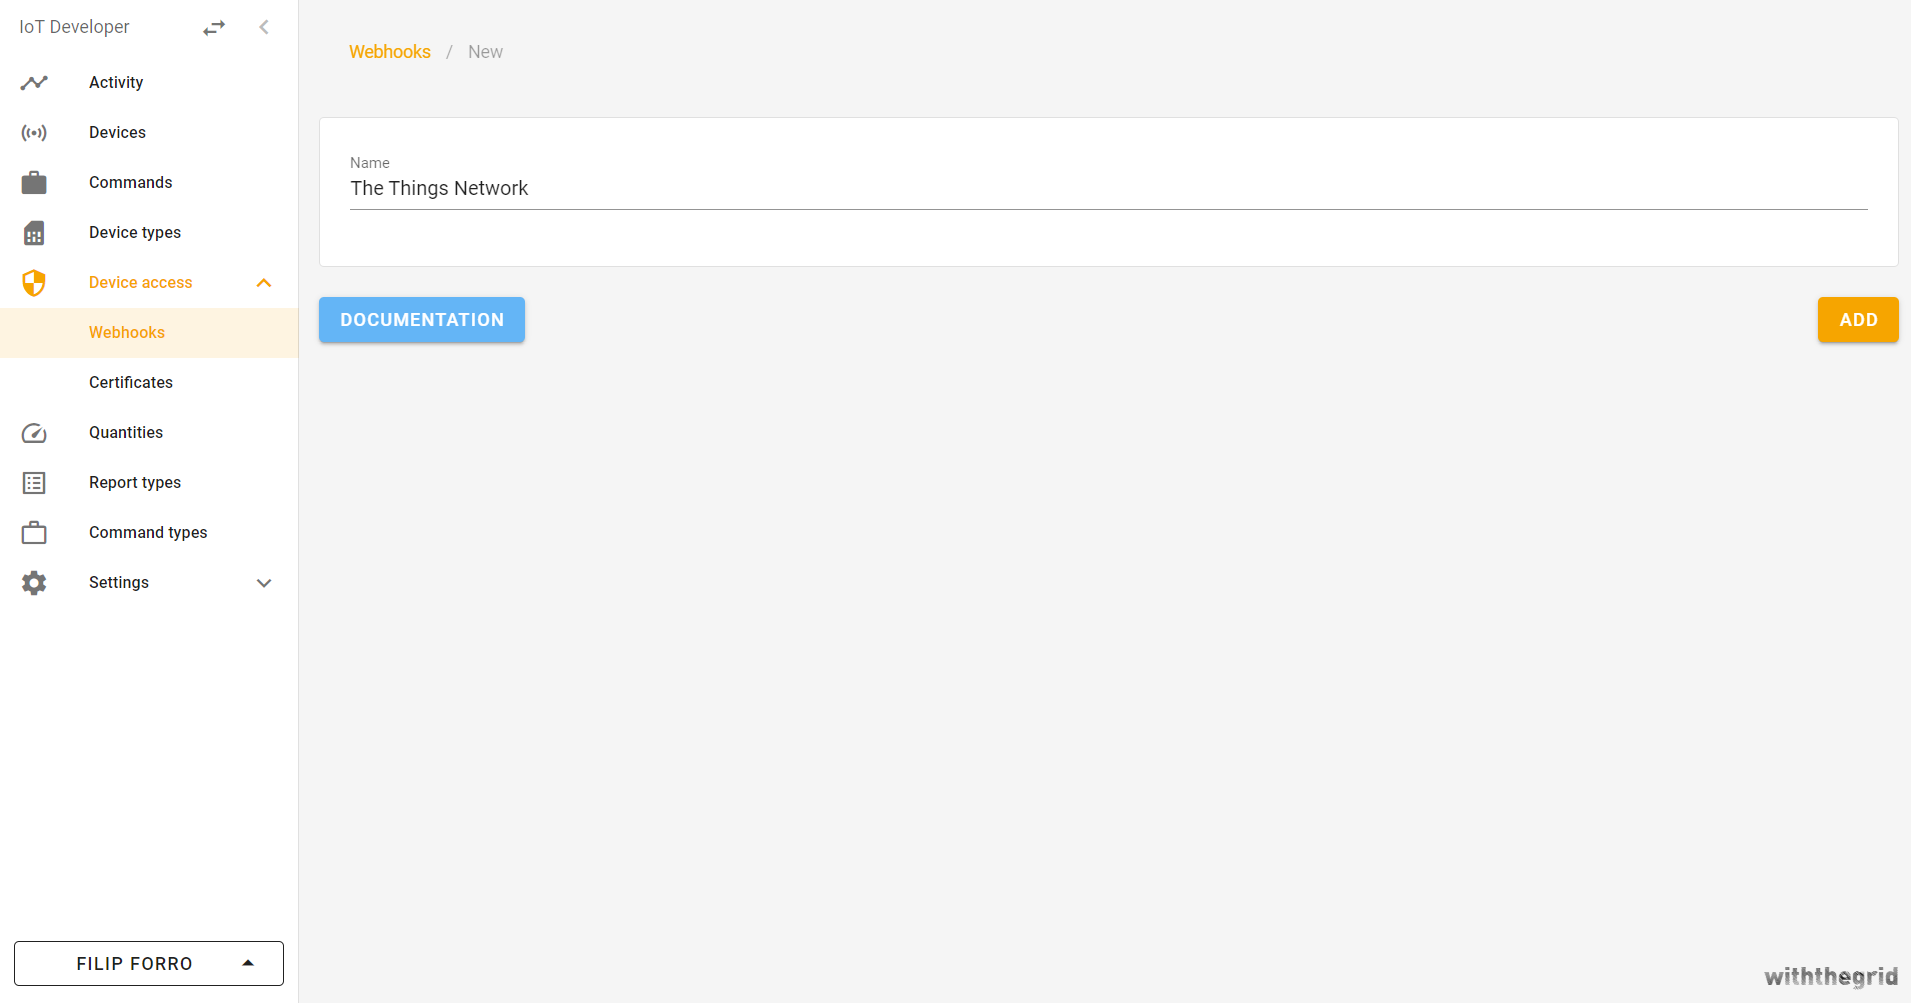
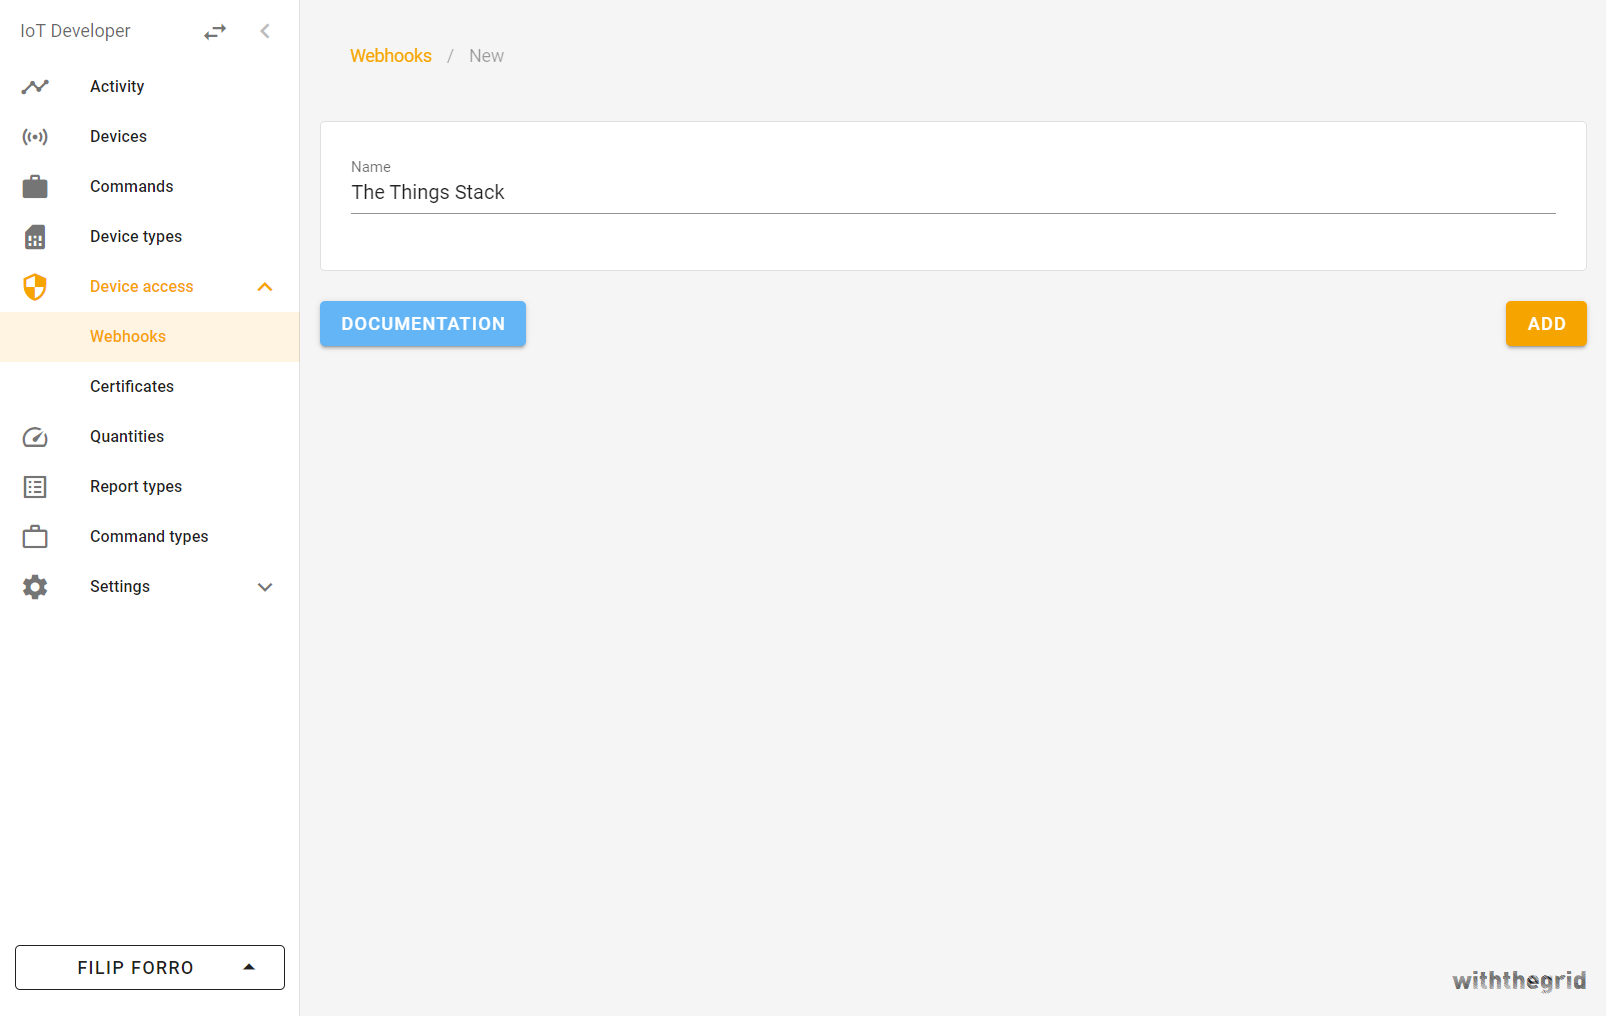
Deploying to gh-pages from  @ c5a835e27c7290f1d20626c1cb16a0f3274a8130 🚀

diff --git a/integrations/cloud-integrations/withthegrid/index.html b/integrations/cloud-integrations/withthegrid/index.html
@@ -284,7 +284,7 @@
         </h1>
         
         <div class="content">
-          <p><a href="https://withthegrid.com/">Withthegrid</a> is a IoT asset monitoring platform for infrastructure - it allows you to monitor assets, connect IoT sensors, visualize data, detect anomalies and manage workflows. In this section, we describe how to implement The Things Stack integration with the Withthegrid platform.</p>
+          <p><a href="https://withthegrid.com/">Withthegrid</a> is an IoT asset monitoring platform for infrastructure - it allows you to monitor assets, connect IoT sensors, visualize data, detect anomalies and manage workflows. In this section, we describe how to implement The Things Stack integration with the Withthegrid platform.</p>
 <h2 id="requirements">Requirements</h2>
 <p>Use a requirements subheading to list requirements/prerequisites.</p>
 <ol>
@@ -298,7 +298,7 @@
 <figure>
     <img src="monnEnvironment.png"
          alt="Monitoring environment example"/> <figcaption>
-            <p>Figure 1. Example of a setup of monitoring environment</p>
+            <p>Figure 1. Example of the setup of monitoring environment</p>
         </figcaption>
 </figure>
 
@@ -307,7 +307,7 @@
 <p>In the connectivity environment, you can configure secure access for your devices through HTTPS webhooks or client certificates. You can define event handlers in TypeScript that parse incoming payloads into measurement reports, return instructions to devices and monitor device health.</p>
 <figure>
     <img src="connEnvironment.png"
-         alt="Figure 2. Example of the setup of connectivity environment"/> <figcaption>
+         alt="Connectivity environment example"/> <figcaption>
             <p>Figure 2. Example of the setup of connectivity environment</p>
         </figcaption>
 </figure>
@@ -318,7 +318,9 @@
 <p>A simplified dataflow model is shown in the figure below. An HTTP request from The Things Stack is processed by the <strong>webhook</strong>. Webhooks define the communicating device type, its unique identifier (e.g. IMEI number) and forward this information together with the payload to the corresponding <strong>device type event handler</strong>. Subsequently, the event handler runs a <strong>report parser</strong>. The platform offers full flexibility on how to parse payload into condition reports, using a custom TypeScript parser function. The parser should then convert the payload string (probably applying <code>JSON.parse</code> first) into an actual report with measurements.</p>
 <figure>
     <img src="dataFlow.png"
-         alt="WTG dataflow"/> 
+         alt="WTG dataflow"/> <figcaption>
+            <p>Figure 3. Simplified dataflow model of the Withthegrid platform</p>
+        </figcaption>
 </figure>
 
 <p>Now, let&rsquo;s implement the integration!</p>
@@ -326,106 +328,134 @@
 <p>To create a new connectivity environment, simply enter the desired name and select <strong>CREATE</strong>.</p>
 <figure>
     <img src="1_c_environment.png"
-         alt="Create new connectivity environment"/> 
+         alt="Create new connectivity environment"/> <figcaption>
+            <p>Figure 4. New connectivity environment</p>
+        </figcaption>
 </figure>
 
 <p>The same procedure can be followed to create a new monitoring environment. To create the first location in the monitoring environment, locate the desired place on the map and <strong>Add a new location</strong>.</p>
 <figure>
     <img src="claim6.png"
-         alt="Add new location"/> 
+         alt="Add new location"/> <figcaption>
+            <p>Figure 5. Add new location</p>
+        </figcaption>
 </figure>
 
 <p>To navigate between the environments, click on the arrows located in the top left corner.</p>
 <h2 id="step-2-creating-a-new-webhook">Step 2: Creating a new webhook</h2>
-<p>The first step in integrating the Withthegrid platform with The Things Network is to create a new webhook. Webhooks can be found in the connectivity environment, under <strong>Device access/Webhooks</strong>. To create a new webhook, click <strong>+</strong> in the right bottom corner.</p>
+<p>The first step in integrating the Withthegrid platform with The Things Stack is to create a new webhook. Webhooks can be found in the connectivity environment, under <strong>Device access/Webhooks</strong>. To create a new webhook, click <strong>+</strong> in the right bottom corner.</p>
 <figure>
     <img src="2_c_environment.png"
-         alt="Webhooks"/> 
+         alt="Webhooks"/> <figcaption>
+            <p>Figure 6. Webhooks overview</p>
+        </figcaption>
 </figure>
 
 <p>Select the desired webhook name and click <strong>ADD</strong>.</p>
 <figure>
     <img src="webhook_1.png"
-         alt="Add webhook"/> 
+         alt="Add webhook"/> <figcaption>
+            <p>Figure 7. Add a new webhook</p>
+        </figcaption>
 </figure>
 
-<p>The platform will generate a webhook URL which we can use later to connect with The Things Network.</p>
+<p>The platform will generate a webhook URL which we can use later to connect with The Things Stack.</p>
 <figure>
     <img src="webhook_2.png"
-         alt="Webhook URL"/> 
+         alt="Webhook URL"/> <figcaption>
+            <p>Figure 8. New webhook</p>
+        </figcaption>
 </figure>
 
 <h2 id="step-3-creating-and-configuring-a-new-device-type">Step 3: Creating and configuring a new device type</h2>
 <p>A new device type can be created in a connectivity environment by navigating to <strong>Device types</strong>. This page shows an overview of all the device types that are available in your environment. Let’s create the first device type by clicking <strong>+</strong> in the bottom right corner.</p>
 <figure>
     <img src="5_c_environment_deviceType.png"
-         alt="New device type"/> 
+         alt="New device type"/> <figcaption>
+            <p>Figure 9. Device types overview</p>
+        </figcaption>
 </figure>
 
 <p>Name the new device type. At this point, we can also change the default name of the device channel to <code>Internal Sensor</code>. Use the same name for default name for port. This is where internal battery voltage measurements will be pushed.</p>
 <figure>
     <img src="device_type_1.png"
-         alt="Device type overview"/> 
+         alt="Device type overview"/> <figcaption>
+            <p>Figure 10. Add a new device type</p>
+        </figcaption>
 </figure>
 
 <p>Let’s create one additional channel (<code>Probe</code>), where we will push measurements related to the water leak.</p>
 <figure>
     <img src="device_type_2.png"
-         alt="Set channels"/> 
+         alt="Set channels"/> <figcaption>
+            <p>Figure 11. Set channels</p>
+        </figcaption>
 </figure>
 
 <p>Click <strong>ADD</strong> to set the channel and click <strong>ADD</strong> to update and save the changes.</p>
 <p>Withthegrid&rsquo;s new event handler will validate the incoming request and pass the payload to the corresponding report parser which will parse incoming payloads into measurement reports. The new device type will be given a new hashID (e.g. <strong>4djrvd</strong>) which is a unique ID that identifies the event handler of <strong>Dragino - LWL02</strong>.</p>
 <figure>
     <img src="device_type_3.png"
-         alt="Device type"/> 
+         alt="Device type"/> <figcaption>
+            <p>Figure 12. List of existing device types</p>
+        </figcaption>
 </figure>
 
 <h2 id="step-4-creating-a-new-report-type-and-quantities">Step 4: Creating a new report type and quantities</h2>
 <p>For each report, a report parser can parse the incoming payload. To create a new report, click <strong>+</strong> in the bottom right corner.</p>
 <figure>
     <img src="8_c_environment_report.png"
-         alt="Create a report parser"/> 
+         alt="Create a report parser"/> <figcaption>
+            <p>Figure 13. Report types overview</p>
+        </figcaption>
 </figure>
 
 <p>Follow the same steps as before to <strong>ADD</strong> the new report type.</p>
 <figure>
     <img src="10_c_environment_report.png"
-         alt="Report parser"/> 
+         alt="Report parser"/> <figcaption>
+            <p>Figure 14. Add a new report parser</p>
+        </figcaption>
 </figure>
 
 <p>In the report parser, we will correctly parse the incoming payload into a measurement report. A new report type will be given a hashID (e.g. <strong>eyr96d</strong>). Note that the hashID is automatically created and will be different for everyone.</p>
 <p>The quantities of interest in this example are voltage, leak status, total leak events and last leak duration. Custom quantities can be found in the panel under option <strong>Quantities</strong>. To create a new quantity, select <strong>+</strong>.</p>
 <figure>
     <img src="quantities_1.png"
-         alt="Quantities"/> 
+         alt="Quantities"/> <figcaption>
+            <p>Figure 15. Quantities overview</p>
+        </figcaption>
 </figure>
 
 <p>Enter the quantity name <code>Voltage</code> and unit <code>V</code>. To create the quantity, select <strong>ADD</strong>.</p>
 <figure>
     <img src="quantity_1.png"
-         alt="Create a quantity"/> 
+         alt="Create a quantity"/> <figcaption>
+            <p>Figure 16. Add a new quantity</p>
+        </figcaption>
 </figure>
 
 <p>After selecting <strong>ADD</strong>, a hashID will be created for the newly created quantity. We will create <code>Leak status</code>, <code>Total leak events</code>, and <code>Last leak duration</code> quantities by following the same procedure. For unitless quantities, just enter space. Leak duration is in min according to the datasheet. In this example, the voltage, leak status, total leak events, and last leak duration hashIDs are <strong>yl4wwy</strong>, <strong>dp2v9d</strong>, <strong>yzrwny</strong>, and <strong>d4rwrd</strong>, respectively. The hashIDs will be used in the report to identify the correct measurement quantity.</p>
 <figure>
     <img src="quantity_2.png"
-         alt="Created quantities overview"/> 
+         alt="Created quantities overview"/> <figcaption>
+            <p>Figure 17. List of existing quantities</p>
+        </figcaption>
 </figure>
 
 <h2 id="step-5-configuring-the-created-webhook">Step 5: Configuring the created webhook</h2>
-<p>The webhook created in step 2 can be edited by navigating to <strong>Webhooks</strong>, selecting the newly created <strong>The Things Network</strong> webhook, and clicking <strong>EDIT THE IDENTIFIER</strong>. The platform provides a template and a direct link to the webhook documentation. The following webhook will pass the payload from The Things Stack, together with the device type hashID to the appropriate event handler. Lastly, the webhook will also return a <code>deviceIdentifier</code>, e.g. the IMEI of the device.</p>
+<p>The webhook created in step 2 can be edited by navigating to <strong>Webhooks</strong>, selecting the newly created The Things Stack webhook, and clicking <strong>EDIT THE IDENTIFIER</strong>. The platform provides a template and a direct link to the webhook documentation. The following webhook will pass the payload from The Things Stack, together with the device type hashID to the appropriate event handler. Lastly, the webhook will also return a <code>deviceIdentifier</code>, e.g. the IMEI of the device.</p>
 <div class="highlight"><pre class="chroma"><code class="language-tsx" data-lang="tsx"><span class="nx">type</span> <span class="nx">JsonObject</span> <span class="o">=</span> <span class="p">{</span> <span class="p">[</span><span class="nx">key</span>: <span class="kt">string</span><span class="p">]</span><span class="o">:</span> <span class="nx">Json</span> <span class="p">};</span>
 
-<span class="kr">const</span> <span class="nx">ttnApplicationIds</span> <span class="o">=</span> <span class="p">{</span>
+<span class="kr">const</span> <span class="nx">ttsApplicationIds</span> <span class="o">=</span> <span class="p">{</span>
   <span class="nx">dragino</span><span class="o">:</span> <span class="p">{</span>
-    <span class="nx">waterLeak</span><span class="o">:</span> <span class="s2">&#34;dwl&#34;</span><span class="p">,</span>
+    <span class="nx">waterLeak</span><span class="o">:</span> <span class="s1">&#39;dwl&#39;</span><span class="p">,</span>
   <span class="p">},</span>
 <span class="p">};</span>
-
+ 
 <span class="kr">const</span> <span class="nx">deviceTypeHashIds</span> <span class="o">=</span> <span class="p">{</span>
   <span class="nx">dragino</span><span class="o">:</span> <span class="p">{</span>
-    <span class="nx">waterLeak</span><span class="o">:</span> <span class="s2">&#34;4djrvd&#34;</span><span class="p">,</span>
+    <span class="nx">waterLeak</span><span class="o">:</span> <span class="s1">&#39;4djrvd&#39;</span><span class="p">,</span>
   <span class="p">},</span>
 <span class="p">};</span>
 
@@ -434,7 +464,7 @@
   <span class="kd">let</span> <span class="nx">deviceTypeHashId</span><span class="p">;</span>
 
   <span class="k">switch</span> <span class="p">(</span><span class="nx">data</span><span class="o">?</span><span class="p">.</span><span class="nx">end_device_ids</span><span class="o">?</span><span class="p">.</span><span class="nx">application_ids</span><span class="p">.</span><span class="nx">application_id</span><span class="p">)</span> <span class="p">{</span>
-    <span class="k">case</span> <span class="nx">ttnApplicationIds.dragino.waterLeak</span>:
+    <span class="k">case</span> <span class="nx">ttsApplicationIds.dragino.waterLeak</span>:
       <span class="kt">deviceTypeHashId</span> <span class="o">=</span> <span class="nx">deviceTypeHashIds</span><span class="p">.</span><span class="nx">dragino</span><span class="p">.</span><span class="nx">waterLeak</span><span class="p">;</span>
       <span class="k">break</span><span class="p">;</span>
 
@@ -491,7 +521,7 @@
       <span class="k">if</span> <span class="p">(</span><span class="nx">payload</span><span class="p">.</span><span class="nx">join_accept</span> <span class="o">!==</span> <span class="kc">undefined</span><span class="p">)</span> <span class="p">{</span>
         <span class="k">return</span> <span class="p">{</span>
           <span class="nx">statusCode</span>: <span class="kt">204</span><span class="p">,</span>
-          <span class="nx">body</span><span class="o">:</span> <span class="p">[</span><span class="s2">&#34;TTN is registering!&#34;</span><span class="p">],</span>
+          <span class="nx">body</span><span class="o">:</span> <span class="p">[</span><span class="s2">&#34;The Things Stack is registering!&#34;</span><span class="p">],</span>
         <span class="p">};</span>
       <span class="p">}</span>
 
@@ -522,8 +552,10 @@
 <p><a href="https://www.thethingsindustries.com/docs/integrations/adding-applications/">Create an application</a> and <a href="https://www.thethingsindustries.com/docs/devices/adding-devices/">add the Dragino device</a> by following linked tutorials.</p>
 <p>After the device is registered, we can configure a new webhook on The Things Stack. Set the webhook format to <strong>JSON</strong> and enter the <strong>Base URL</strong> provided with the Withthegrid webhook we created in step 2.</p>
 <figure>
-    <img src="TTN_Webhook.png"
-         alt="TTN set up webhook"/> 
+    <img src="TTS_Webhook.png"
+         alt="TTS set up webhook"/> <figcaption>
+            <p>Figure 20. Configure The Things Stack webhook</p>
+        </figcaption>
 </figure>
 
 <h2 id="step-8-configuring-report-type">Step 8: Configuring report type</h2>
@@ -631,32 +663,42 @@
 <p>After powering up the device it should automatically connect to the Withthegrid application. The successful connection can be observed in the connectivity environment under <strong>Activity</strong> and it will look like this:</p>
 <figure>
     <img src="activity_1.png"
-         alt="Activity"/> 
+         alt="Activity"/> <figcaption>
+            <p>Figure 20. Activity overview</p>
+        </figcaption>
 </figure>
 
 <p>You can click on <strong>Parse report</strong> to view more information and verify that the parsing is correct.</p>
 <figure>
     <img src="activity_2.png"
-         alt="Snipet of parsed report"/> 
+         alt="Snipet of parsed report"/> <figcaption>
+            <p>Figure 21. Example of the parsed report</p>
+        </figcaption>
 </figure>
 
 <h2 id="step-10-claiming-device-tokens">Step 10: Claiming device tokens</h2>
 <p>When the sensor is linked for the first time, the instance of the device is created in the platform and can be found in <strong>Devices</strong>. The corresponding device will have a unique hashID (e.g. <strong>dxrwmd</strong>), Identifier (in our case IMEI of the device), and will be of device type <strong>Dragino - LWL02</strong>. The device can be easily placed in any monitoring environment by selecting <strong>GET CLAIM TOKEN(S)</strong> in the bottom right corner.</p>
 <figure>
     <img src="tokens_1.png"
-         alt="Tokens for devices"/> 
+         alt="Tokens for devices"/> <figcaption>
+            <p>Figure 22. Devices overview</p>
+        </figcaption>
 </figure>
 
 <p>Enter the hashID of a device to be claimed and click <strong>REQUEST</strong>.</p>
 <figure>
     <img src="tokens_2.png"
-         alt="HashID for claim token"/> 
+         alt="HashID for claim token"/> <figcaption>
+            <p>Figure 23. Get claim tokens with device hash IDs</p>
+        </figcaption>
 </figure>
 
 <p>The platform will output a claim token that can be copied.</p>
 <figure>
     <img src="token_3.png"
-         alt="Get claim token"/> 
+         alt="Get claim token"/> <figcaption>
+            <p>Figure 24. Claim generated token</p>
+        </figcaption>
 </figure>
 
 <p>In the last step, we will configure the monitoring environment and add the newly connected sensor.</p>
@@ -664,31 +706,41 @@
 <p>To add a device into the monitoring environment, navigate to <strong>Devices</strong>, click <strong>+</strong>, and enter the previously copied claim token. Click <strong>ADD</strong>.</p>
 <figure>
     <img src="claim4.png"
-         alt="Claim token"/> 
+         alt="Claim token"/> <figcaption>
+            <p>Figure 25. Claim device in the monitoring environment</p>
+        </figcaption>
 </figure>
 
 <p>The following image shows that the device is registered in the monitoring environment, however, is not installed yet.</p>
 <figure>
     <img src="Mon_1.png"
-         alt="Claim device in monitoring environment"/> 
+         alt="Claim device in monitoring environment"/> <figcaption>
+            <p>Figure 26. Available devices</p>
+        </figcaption>
 </figure>
 
 <p>To install a device, navigate to the created location (<strong>ACME Headquarters</strong>) and select <strong>Devices</strong>.</p>
 <figure>
     <img src="claim7.png"
-         alt="Create location"/> 
+         alt="Create location"/> <figcaption>
+            <p>Figure 27. Add a device to location</p>
+        </figcaption>
 </figure>
 
 <p>In <strong>Link to a device</strong>, select the <strong>Dragino - LWL02</strong>. Finally, we would like to track the <strong>Internal Sensor</strong> port and <strong>Probe</strong> port onto which measurements are pushed. Click <strong>+ PORT</strong> to add the <strong>Internal Sensor</strong> channel and repeat to add the <strong>Probe</strong> channel. Finalize the device installation with <strong>SET</strong>.</p>
 <figure>
     <img src="Mon_2.png"
-         alt="Set device ports"/> 
+         alt="Set device ports"/> <figcaption>
+            <p>Figure 28. Set device ports</p>
+        </figcaption>
 </figure>
 
 <p>From this point on, all measurements pushed to channels of Dragino - LWL02 sensor with the unique IMEI will be available in the monitoring environments, ready to be visualized in graphs. Try shorting the two pins on the sensor to see if a measurement is recorded.</p>
 <figure>
     <img src="Graphs.png"
-         alt="Overview of the graph"/> 
+         alt="Overview of the graph"/> <figcaption>
+            <p>Figure 29. Visualize data</p>
+        </figcaption>
 </figure>
 
 <p>Congratulations! If you can see measurements in the graphs, you have successfully finished the tutorial. If you want to learn more about all the cool functionalities that the Withthegrid platform offers, do not hesitate to look at our <a href="http://docs.withthegrid.com/">documentation</a> or contact us directly through <a href="http://withthegrid.com/">withthegrid.com</a>.</p>
@@ -795,10 +847,10 @@
         <h3 class="title is-6">About this page</h3>
         <div class="content">
 <p class="is-size-7">
-  Last changed by Filip Forro on 12 Jan 2022.
+  Last changed by Nejra Selimović on 18 Mar 2022.
   <br>
-  <a href="https://github.com/TheThingsIndustries/lorawan-stack-docs/commit/9a3b9d48b7b48e1129279851144234ee2e946cc9">
-      doc: Add withthegrid documentation (#716)
+  <a href="https://github.com/TheThingsIndustries/lorawan-stack-docs/commit/c5a835e27c7290f1d20626c1cb16a0f3274a8130">
+      doc: Add Withthegrid integration doc (#822)
     </a>
 </p>
 
